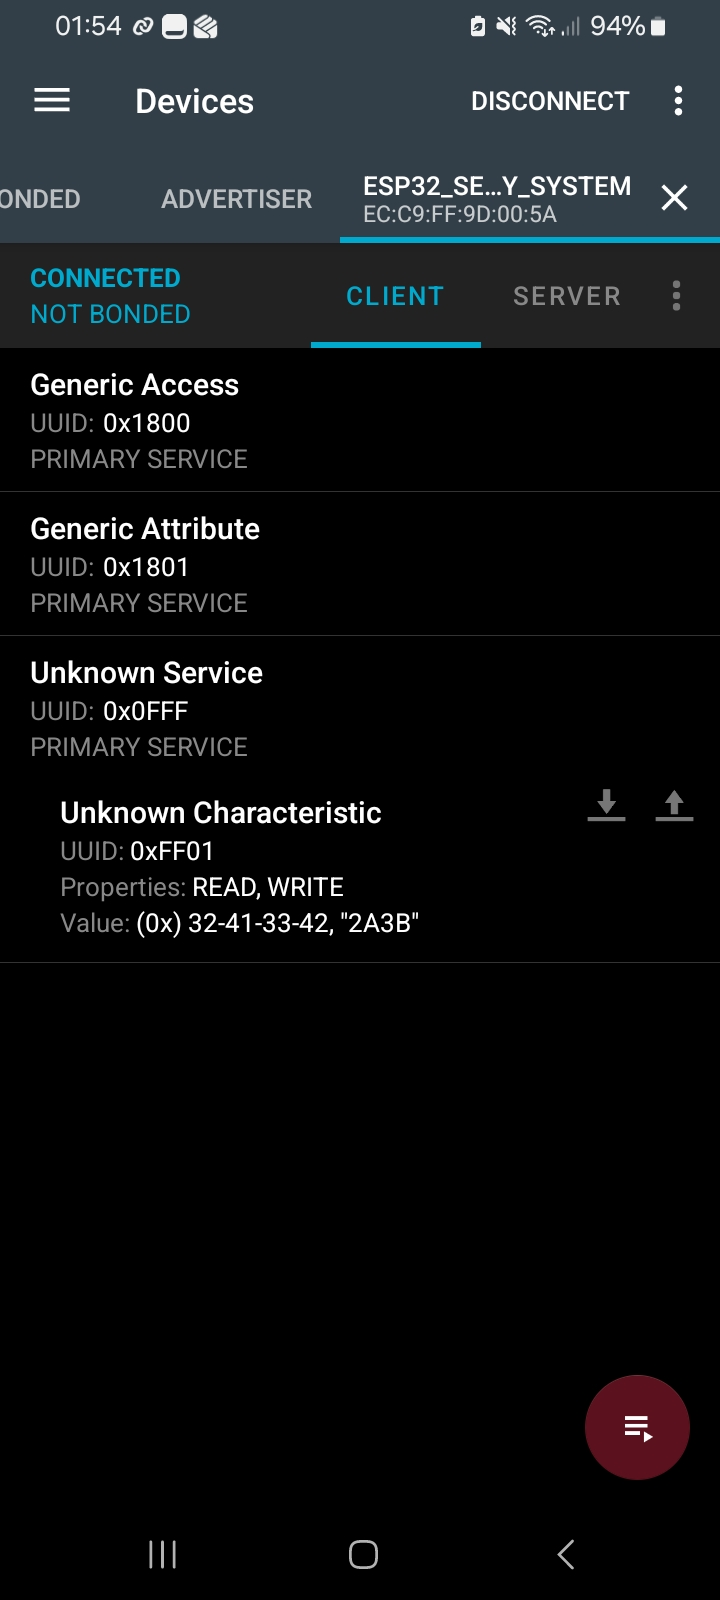
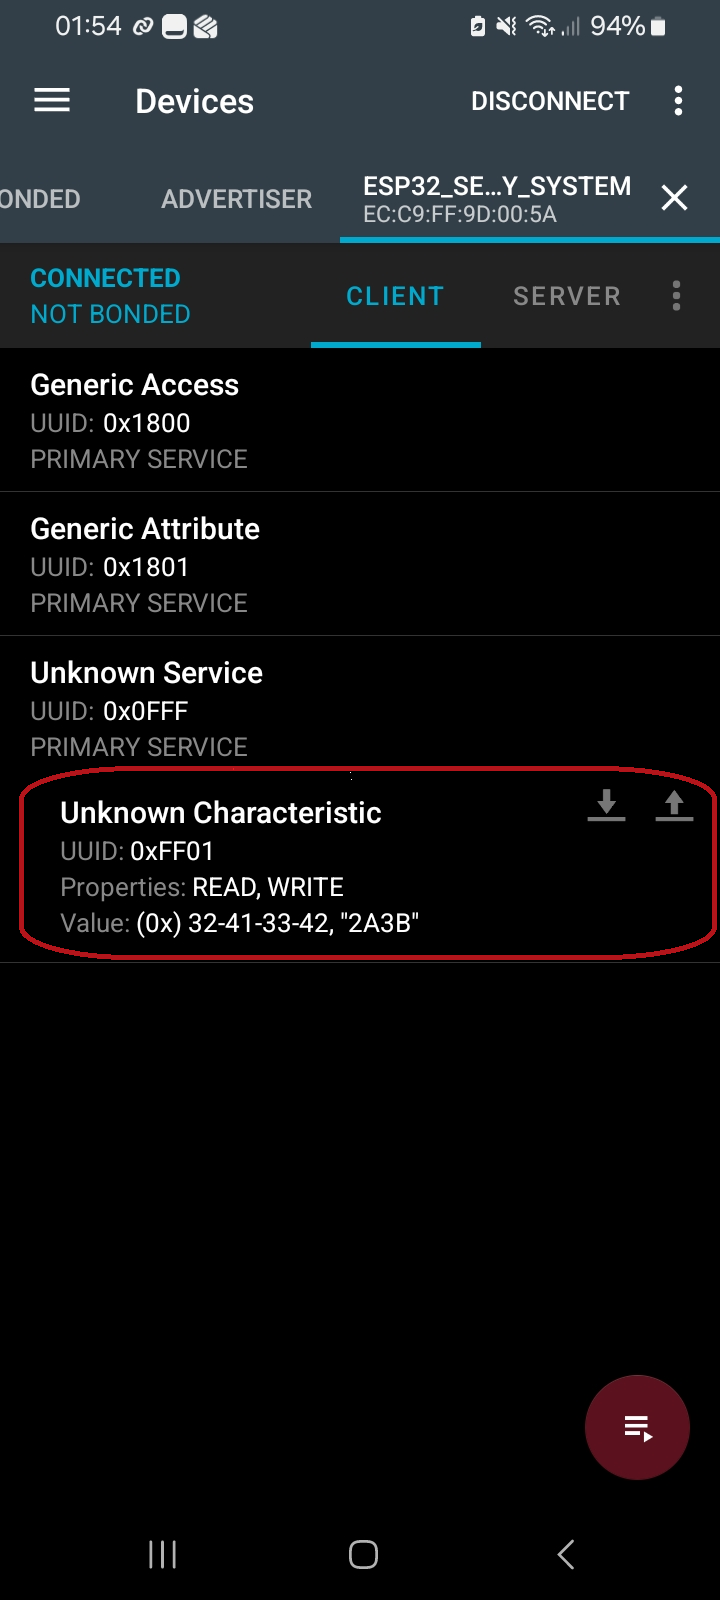
MAj

diff --git a/index.html b/index.html
@@ -124,6 +124,13 @@ a:focus-visible{outline:3px solid var(--acc2);outline-offset:2px}
 .c-ico svg{width:20px;height:20px;fill:none;stroke:currentColor;stroke-width:1.8;stroke-linecap:round;stroke-linejoin:round}
 .c-txt{min-width:0;overflow-wrap:anywhere;font-weight:500}
 .c-txt small{display:block;font-weight:400;font-size:.78rem;color:var(--mute);letter-spacing:.02em;text-transform:uppercase}
+.gallery{display:grid;grid-template-columns:repeat(auto-fit,minmax(220px,1fr));gap:12px;margin:14px 0 6px}
+.gallery figure{margin:0}
+.gallery a{display:block}
+.gallery img{display:block;width:100%;height:240px;object-fit:contain;border-radius:10px;border:1px solid var(--line);background:var(--card);transition:transform .15s ease,box-shadow .15s ease}
+.gallery a:hover img{transform:translateY(-2px);box-shadow:0 8px 22px rgba(20,33,43,.12)}
+.gallery a:focus-visible{outline:3px solid var(--acc2);outline-offset:2px;border-radius:10px}
+.gallery figcaption{color:var(--mute);font-size:.82rem;margin-top:6px}
 footer{border-top:1px solid var(--line);margin-top:56px;padding-top:24px}
 @media (max-width:640px){.proj{grid-template-columns:1fr}.cat-block{padding-left:14px}.tp-item>summary{padding:14px 36px 14px 2px}.tp-item>summary::after{right:8px}}
 </style>
@@ -200,6 +207,16 @@ footer{border-top:1px solid var(--line);margin-top:56px;padding-top:24px}
         <p><strong>Mission :</strong> concevoir et mettre en œuvre un système de reconnaissance de culture et de cueillette de précision dans des contextes agricoles, basé sur un robot de cueillette mobile.</p>
         <ul><li>Navigation autonome du robot, perception et détection d’objets avec ROS2, OpenCV et YOLO, en Python.</li><li>Simulation sous Gazebo, puis déploiement sur le robot réel évoluant dans un milieu avec obstacles.</li><li>Réalisation de la chaîne complète : navigation autonome, reconnaissance des fruits et légumes mûrs et cueillette.</li></ul>
         <p><strong>Résultats :</strong> simulation fonctionnelle de la navigation, puis navigation autonome du robot réel dans un environnement avec obstacles, et chaîne complète de reconnaissance et de cueillette opérationnelle.</p>
+        <div class="gallery">
+        <figure>
+          <a href="images/Photo_robot_hiwonder.jpeg" target="_blank" rel="noopener"><img src="images/Photo_robot_hiwonder.jpeg" alt="Robot mobile Hiwonder" loading="lazy"></a>
+          <figcaption>Le robot mobile</figcaption>
+        </figure>
+        <figure>
+          <a href="images/Dectection_de_couleur_par_hiwonder.jpg" target="_blank" rel="noopener"><img src="images/Dectection_de_couleur_par_hiwonder.jpg" alt="Détection de couleur affichée sur l’écran du robot" loading="lazy"></a>
+          <figcaption>Détection de couleur</figcaption>
+        </figure>
+      </div>
         <span class="tag">Python</span><span class="tag">ROS2</span><span class="tag">OpenCV</span><span class="tag">YOLO</span><span class="tag">Gazebo</span><span class="tag">Systèmes temps réel</span>
           </div>
         </details>
@@ -266,6 +283,20 @@ footer{border-top:1px solid var(--line);margin-top:56px;padding-top:24px}
         <p><strong>Mission :</strong> concevoir un contrôle d’accès par code pour la barrière d’un immeuble : le code saisi sur un keypad 4×4 s’affiche en temps réel sur un LCD, puis est transmis en Bluetooth Low Energy à un Raspberry Pi chargé de le vérifier dans une base de données.</p>
         <ul><li>Pilote I2C et LCD HD44780 écrits sans bibliothèque d’écran : API <code>i2c_master</code> d’ESP-IDF, balayage du bus, mode 4 bits via un PCF8574, bascule du signal Enable et séquence d’initialisation gérées à la main.</li><li>Balayage du keypad matriciel dans une tâche FreeRTOS dédiée, avec anti-rebond.</li><li>Serveur GATT BLE (NimBLE) avec service et caractéristique personnalisés.</li></ul>
         <p><strong>Résultats :</strong> la première phase, côté ESP32, est réalisée : le code saisi au keypad s’affiche sur le LCD et peut être lu et écrit depuis un smartphone (nRF Connect). Prochaine étape : mutex sur l’accès au LCD, client BLE et base de données des codes sur le Raspberry Pi. <a href="PROJET_3/docs/rapport_avancement.pdf">Rapport d’avancement (PDF)</a></p>
+        <div class="gallery">
+        <figure>
+          <a href="images/entree_du_code_2A3B.jpg" target="_blank" rel="noopener"><img src="images/entree_du_code_2A3B.jpg" alt="Entrée du code d'accès 2A3B="lazy"></a>
+          <figcaption>Entrée du code d'accès 2A3B (nRF Connect)</figcaption>
+        </figure>
+        <figure>
+          <a href="images/detection_du_BLE_ESP32.png" target="_blank" rel="noopener"><img src="images/detection_du_BLE_ESP32.png" alt="Detection de l'ESP32 par l'application mobile nRF" loading="lazy"></a>
+          <figcaption>Detection de l'ESP32 par l'application mobile nRF Connect</figcaption>
+        </figure>
+        <figure>
+          <a href="images/ble_code_2a3b.png" target="_blank" rel="noopener"><img src="images/ble_code_2a3b.png" alt="Capture de l’application nRF Connect : Reception du code 2A3B entrré envoyé par l'ESP32" loading="lazy"></a>
+          <figcaption>Capture de l’application nRF Connect : Reception du code 2A3B entrré envoyé par l'ESP32</figcaption>
+        </figure>
+      </div>
         <span class="tag">C</span><span class="tag">ESP-IDF</span><span class="tag">FreeRTOS</span><span class="tag">I2C</span><span class="tag">BLE / NimBLE</span><span class="tag">ESP32 WROVER</span><span class="tag">Raspberry Pi</span>
           </div>
         </details>
